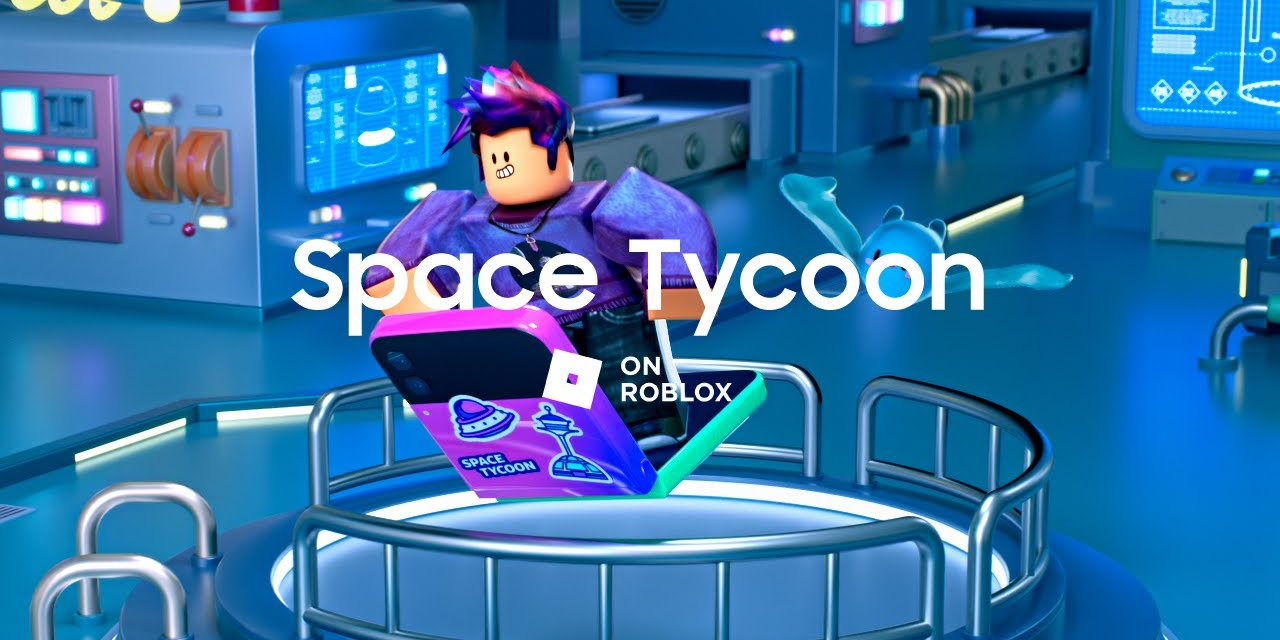
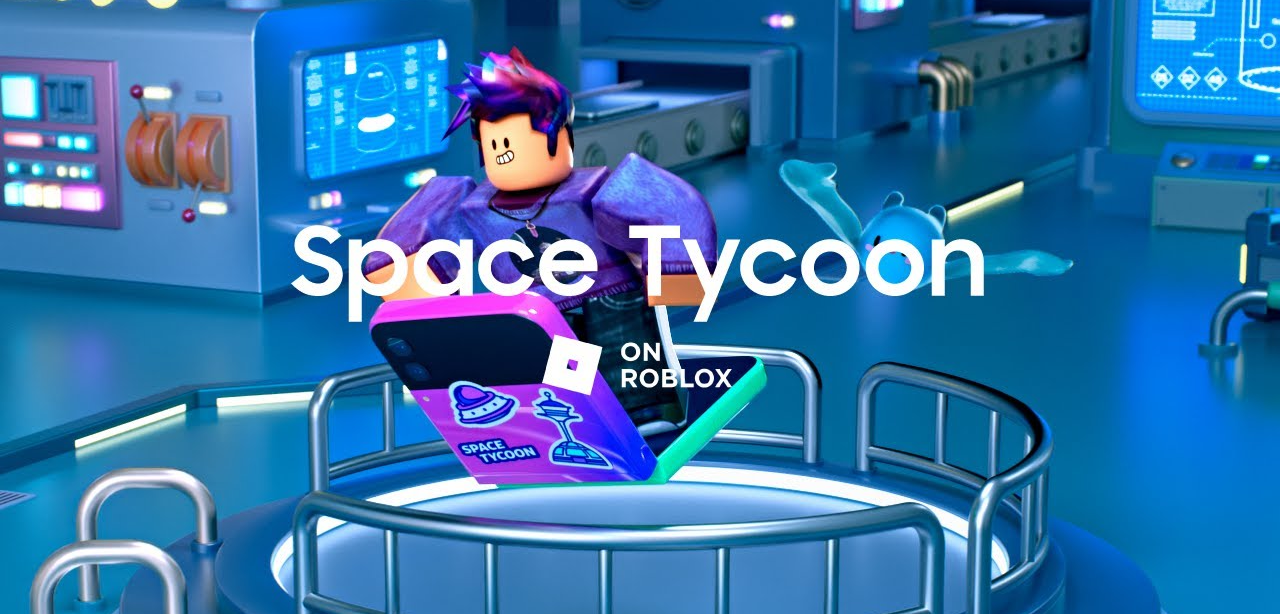
Added game to game section, fixed images proportios

diff --git a/all-games.html b/all-games.html
@@ -55,18 +55,19 @@
 										<a href="kokku.html#roblox"><span class="image fit" ><img src="images/roblox/logo.jpg" alt="" /></span></a>
 									</div>
 									-->
-
+									<div class="col-6"><span class="image fit"><a href="kokku.html#lol" ><img src="images/lol/lol_2x1.png" title="LOL Surprise! OMG Fashion House" alt="" /></a></span></div>
+									<div class="col-6"><span class="image fit"><a href="https://play.google.com/store/apps/details?id=com.wv.experience&hl=en_IE" target="_blank"><img src="images/vati/vw_2x1.png" title="VW Experience" alt="" /></a></span></div>
+							
 									<div class="col-3"><span class="image fit"><a href="kokku.html#trash"><img src="images/trash-sailors_h3sn.jpg" title="Trash Sailors" alt="" /></a></span></div>
-									<div class="col-6"><span class="image fit"><a href="kokku.html#lol"><img src="images/lol/lol_2x1.png" title="LOL Surprise! OMG Fashion House" alt="" /></a></span></div>
-									<div class="col-3"><span class="image fit"><a href="kokku.html#trash"><img src="images/trash-sailors_h3sn.jpg" title="Trash Sailors" alt="" /></a></span></div>
+									<div class="col-6"><span class="image fit"><a href="kokku.html#roblox"><img src="images/roblox/roblox_2x1.png" title="Samsung Space Tycoon" alt="" /></a></span></div>
+									<div class="col-3"><span class="image fit"><a href="univesp.html#gestao"><img src="images/univesp/gestão_1x1.png" title="Conflict Management" alt="" /></a></span></div>
+	
+									<div class="col-3"><span class="image fit"><a href="univesp.html#analise"><img src="images/univesp/sociology_1x1.png" title="Contemporary Sociology Analisys" alt="" /></a></span></div>
+									<div class="col-3"><span class="image fit"><a href="univesp.html#roda"><img src="images/univesp/roda_1x1.png" title="Around the world there goes the boy" alt="" /></a></span></div>									
+									<div class="col-6"><span class="image fit"><a href="https://store.steampowered.com/app/536900/The_Last_Sky/" target="_blank"><img src="images/TheLastSky/TLS_2x1.png" title="The Last Sky" alt="" /></a></span></div>
+									
 
-									<div class="col-4"><span class="image fit"><a href="kokku.html#trash"><img src="images/trash-sailors_h3sn.jpg" title="Trash Sailors" alt="" /></a></span></div>
-									<div class="col-8"><span class="image fit"><a href="kokku.html#lol"><img src="images/lol/lol_2x1.png" title="LOL Surprise! OMG Fashion House" alt="" /></a></span></div>
-									<div class="col-8"><span class="image fit"><a href="kokku.html#roblox"><img src="images/roblox/roblox_2x1.png" title="Samsung Space Tycoon " alt="" /></a></span></div>
-									<div class="col-4"><span class="image fit"><a href="univesp.html#gestao"><img src="images/univesp/gestão_1x1.png" title="Conflict Management" alt="" /></a></span></div>
-									<div class="col-4"><span class="image fit"><a href="univesp.html#analise"><img src="images/univesp/sociology_1x1.png" title="Contemporary Sociology Analisys" alt="" /></a></span></div>
-									<div class="col-4"><span class="image fit"><a href="univesp.html#roda"><img src="images/univesp/roda_1x1.png" title="Around the world there goes the boy" alt="" /></a></span></div>
-									<div class="col-4"><span class="image fit"><a href="minigames.html"><img src="images/draw-runner.png" title="Draw Runner" alt="" /></a></span></div>
+									<div class="col-3"><span class="image fit"><a href="minigames.html"><img src="images/draw-runner.png" title="Draw Runner" alt="" /></a></span></div>
 
 								</div>
 							</div>

diff --git a/index.html b/index.html
@@ -125,17 +125,20 @@
 
 				<section id="games" class="wrapper style2 spotlights">
 					<div class="inner">
-						<h1>Games</h1>
+						<h1>Games and Apps</h1>
 						
 						<div class="box alt">
 							<div class="row gtr-uniform">
-								<div class="col-4"><span class="image fit"><a href="kokku.html#trash"><img src="images/trash-sailors_h3sn.jpg" title="Trash Sailors" alt="" /></a></span></div>
-								<div class="col-8"><span class="image fit"><a href="kokku.html#lol"><img src="images/lol/lol_2x1.png" title="LOL Surprise! OMG Fashion House" alt="" /></a></span></div>
-								<div class="col-8"><span class="image fit"><a href="kokku.html#roblox"><img src="images/roblox/roblox_2x1.png" title="Samsung Space Tycoon " alt="" /></a></span></div>
-								<div class="col-4"><span class="image fit"><a href="univesp.html#gestao"><img src="images/univesp/gestão_1x1.png" title="Conflict Management" alt="" /></a></span></div>
-								<div class="col-4"><span class="image fit"><a href="univesp.html#analise"><img src="images/univesp/sociology_1x1.png" title="Contemporary Sociology Analisys" alt="" /></a></span></div>
-								<div class="col-4"><span class="image fit"><a href="univesp.html#roda"><img src="images/univesp/roda_1x1.png" title="Around the world there goes the boy" alt="" /></a></span></div>
-								<div class="col-4"><span class="image fit"><a href="gamejams.html#catlander"><img src="images/gamejams/catland.png" title="CatLander" alt="" /></a></span></div>
+								<div class="col-6"><span class="image fit"><a href="kokku.html#lol" ><img src="images/lol/lol_2x1.png" title="LOL Surprise! OMG Fashion House" alt="" /></a></span></div>
+								<div class="col-6"><span class="image fit"><a href="https://play.google.com/store/apps/details?id=com.wv.experience&hl=en_IE" target="_blank"><img src="images/vati/vw_2x1.png" title="VW Experience" alt="" /></a></span></div>
+						
+								<div class="col-3"><span class="image fit"><a href="kokku.html#trash"><img src="images/trash-sailors_h3sn.jpg" title="Trash Sailors" alt="" /></a></span></div>
+								<div class="col-6"><span class="image fit"><a href="kokku.html#roblox"><img src="images/roblox/roblox_2x1.png" title="Samsung Space Tycoon" alt="" /></a></span></div>
+								<div class="col-3"><span class="image fit"><a href="univesp.html#gestao"><img src="images/univesp/gestão_1x1.png" title="Conflict Management" alt="" /></a></span></div>
+
+								<div class="col-3"><span class="image fit"><a href="univesp.html#analise"><img src="images/univesp/sociology_1x1.png" title="Contemporary Sociology Analisys" alt="" /></a></span></div>
+								<div class="col-3"><span class="image fit"><a href="univesp.html#roda"><img src="images/univesp/roda_1x1.png" title="Around the world there goes the boy" alt="" /></a></span></div>									
+								<div class="col-6"><span class="image fit"><a href="https://store.steampowered.com/app/536900/The_Last_Sky/" target="_blank"><img src="images/TheLastSky/TLS_2x1.png" title="The Last Sky" alt="" /></a></span></div>
 							</div>
 						</div>
 					</div>
